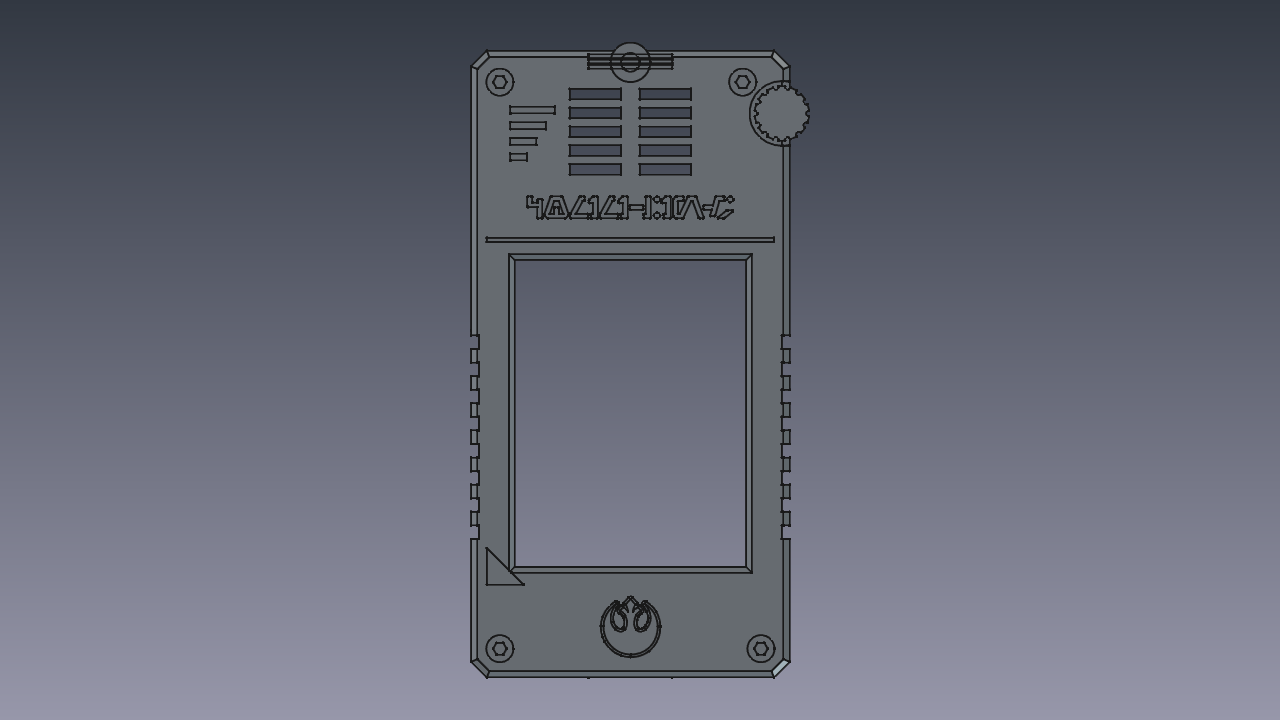
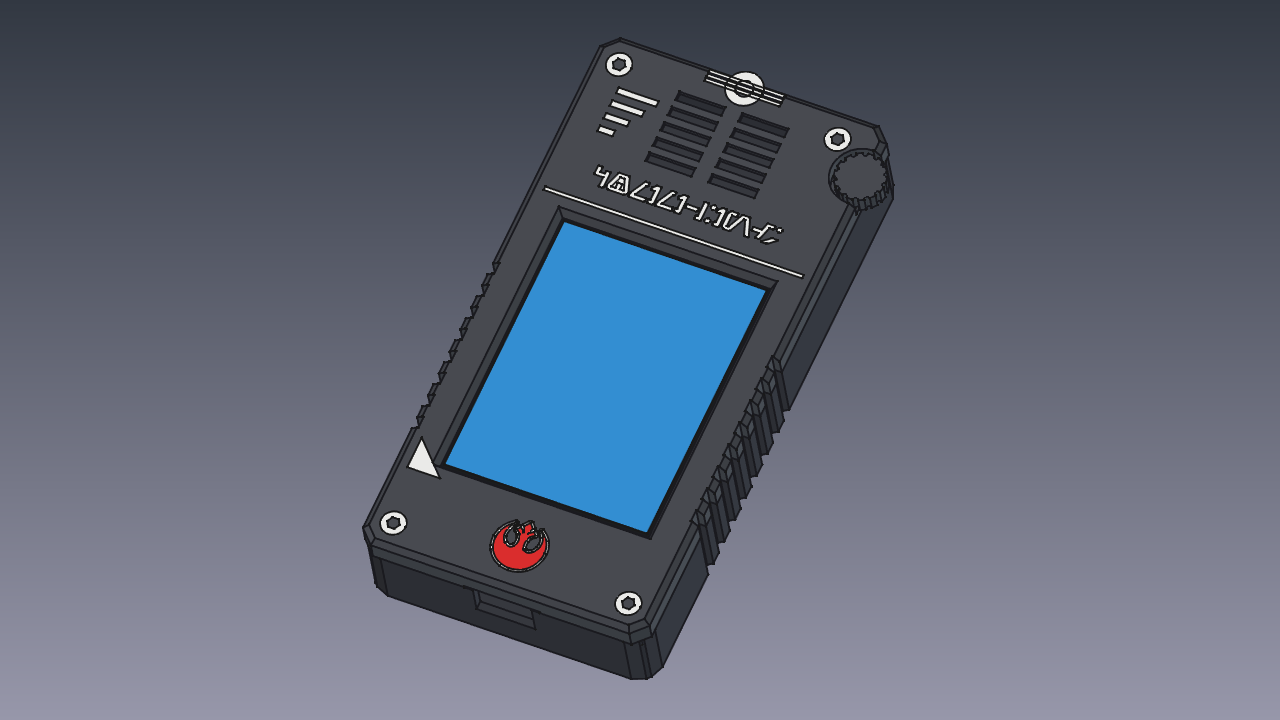
Show the full assembled datapad in the enclosure render views

Changed region(s): [[0.2812, 0.0611, 0.7188, 0.9472]]

diff --git a/docs/enclosure.es.md b/docs/enclosure.es.md
@@ -10,8 +10,8 @@ El diseño incluye tolerancia cero para soportes en la cara frontal (True Zero-S
 
 | | | |
 |:---:|:---:|:---:|
-| ![Ensamble — vista isométrica](images/datapad_render_iso.png) | ![Bisel frontal — vista de cara](images/datapad_render_front.png) | ![Chasis trasero — vista interior](images/datapad_render_interior.png) |
-| *Ensamble — isométrica* | *Bisel frontal* | *Interior del chasis trasero* |
+| ![Datapad ensamblado — vista isométrica](images/datapad_render_iso.png) | ![Datapad ensamblado — vista frontal](images/datapad_render_front.png) | ![Datapad ensamblado — vista posterior](images/datapad_render_rear.png) |
+| *Ensamble — isométrica* | *Ensamble — frontal* | *Ensamble — posterior* |
 
 ---
 

diff --git a/docs/enclosure.md b/docs/enclosure.md
@@ -10,8 +10,8 @@ The design features True Zero-Support FDM printing on the front face (textured P
 
 | | | |
 |:---:|:---:|:---:|
-| ![Assembly — isometric view](images/datapad_render_iso.png) | ![Front bezel — face view](images/datapad_render_front.png) | ![Rear chassis — interior view](images/datapad_render_interior.png) |
-| *Assembly — isometric* | *Front bezel* | *Rear chassis interior* |
+| ![Assembled datapad — isometric view](images/datapad_render_iso.png) | ![Assembled datapad — front view](images/datapad_render_front.png) | ![Assembled datapad — rear view](images/datapad_render_rear.png) |
+| *Assembly — isometric* | *Assembly — front* | *Assembly — rear* |
 
 ---
 
